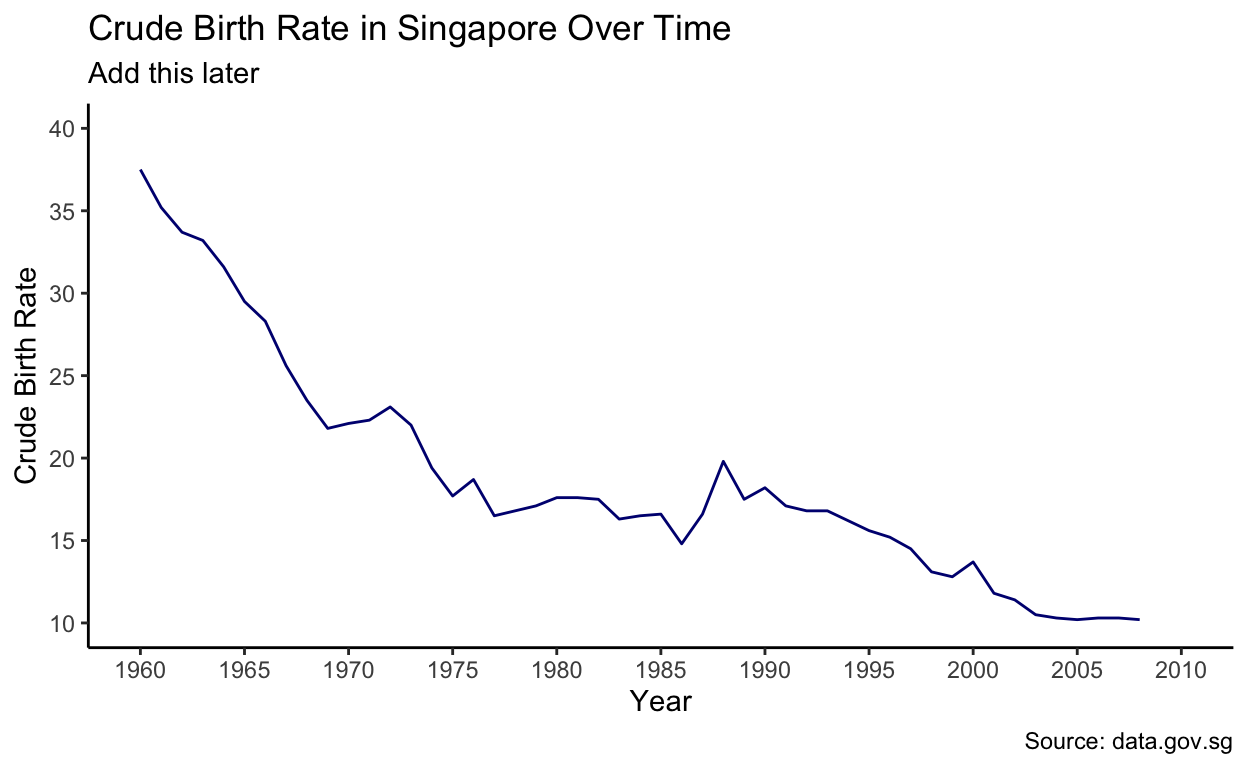
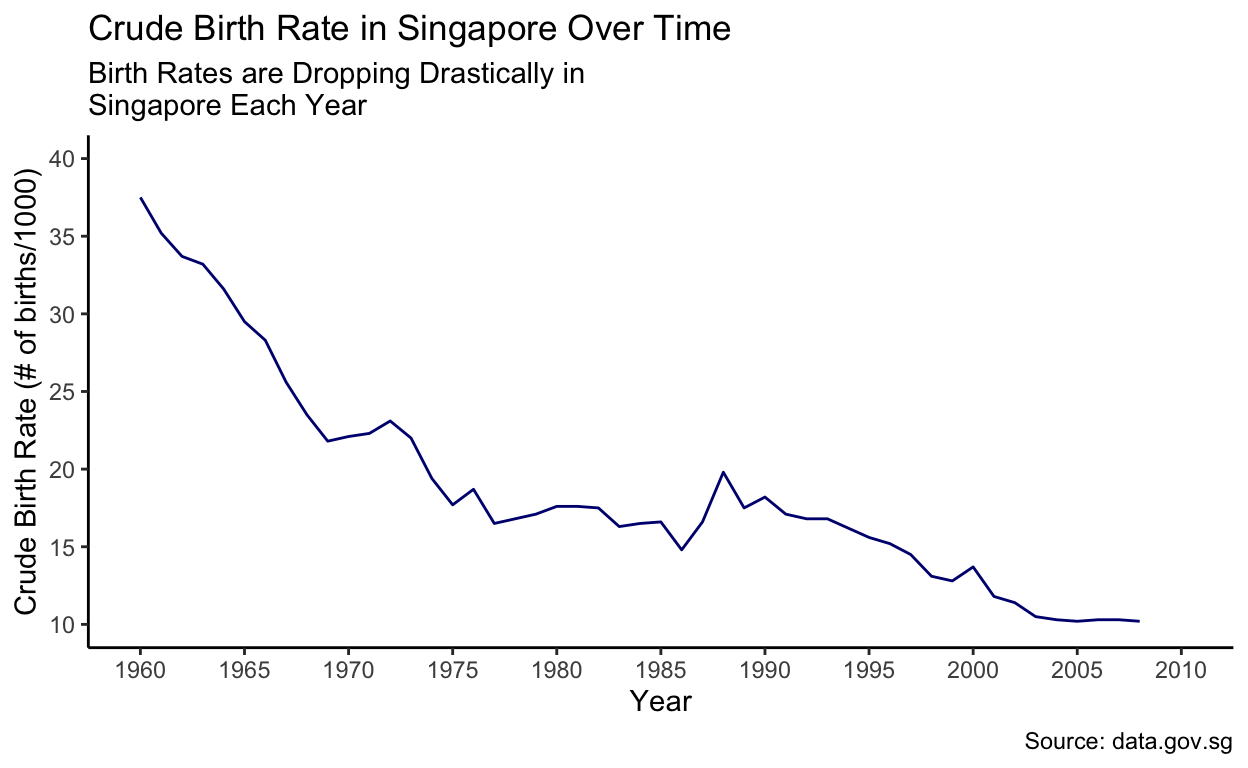
commit VI

diff --git a/docs/index.html b/docs/index.html
@@ -88,27 +88,27 @@ code span.wa { color: #5e5e5e; font-style: italic; } /* Warning */
   <!--radix_placeholder_meta_tags-->
   <title>Singapore and Age: An Analysis of the Causes of Singapores Rapidly Aging Population</title>
 
-  <meta property="description" itemprop="description" content="This is an investigation of the relationship between Singapore&#39;s aging population and the nation-state&#39;s declining birth rates."/>
+  <meta property="description" itemprop="description" content="This is an investigation of the relationship between Singapore\&#39;s aging population and the nation-state\&#39;s declining birth rates."/>
 
 
 
   <!--  https://developers.facebook.com/docs/sharing/webmasters#markup -->
   <meta property="og:title" content="Singapore and Age: An Analysis of the Causes of Singapores Rapidly Aging Population"/>
   <meta property="og:type" content="article"/>
-  <meta property="og:description" content="This is an investigation of the relationship between Singapore&#39;s aging population and the nation-state&#39;s declining birth rates."/>
+  <meta property="og:description" content="This is an investigation of the relationship between Singapore\&#39;s aging population and the nation-state\&#39;s declining birth rates."/>
   <meta property="og:locale" content="en_US"/>
   <meta property="og:site_name" content="Singapore and Age"/>
 
   <!--  https://dev.twitter.com/cards/types/summary -->
   <meta property="twitter:card" content="summary"/>
   <meta property="twitter:title" content="Singapore and Age: An Analysis of the Causes of Singapores Rapidly Aging Population"/>
-  <meta property="twitter:description" content="This is an investigation of the relationship between Singapore&#39;s aging population and the nation-state&#39;s declining birth rates."/>
+  <meta property="twitter:description" content="This is an investigation of the relationship between Singapore\&#39;s aging population and the nation-state\&#39;s declining birth rates."/>
 
   <!--/radix_placeholder_meta_tags-->
   <!--radix_placeholder_rmarkdown_metadata-->
 
   <script type="text/json" id="radix-rmarkdown-metadata">
-  {"type":"list","attributes":{"names":{"type":"character","attributes":{},"value":["title","description","site"]}},"value":[{"type":"character","attributes":{},"value":["An Analysis of the Causes of Singapores Rapidly Aging Population"]},{"type":"character","attributes":{},"value":["This is an investigation of the relationship between Singapore's aging population and the nation-state's declining birth rates."]},{"type":"character","attributes":{},"value":["distill::distill_website"]}]}
+  {"type":"list","attributes":{"names":{"type":"character","attributes":{},"value":["title","description","site"]}},"value":[{"type":"character","attributes":{},"value":["An Analysis of the Causes of Singapores Rapidly Aging Population"]},{"type":"character","attributes":{},"value":["This is an investigation of the relationship between Singapore\\'s aging population and the nation-state\\'s declining birth rates.\n"]},{"type":"character","attributes":{},"value":["distill::distill_website"]}]}
   </script>
   <!--/radix_placeholder_rmarkdown_metadata-->
   <!--radix_placeholder_navigation_in_header-->
@@ -2053,7 +2053,7 @@ code span.wa { color: #5e5e5e; font-style: italic; } /* Warning */
 <!--radix_placeholder_front_matter-->
 
 <script id="distill-front-matter" type="text/json">
-{"title":"An Analysis of the Causes of Singapores Rapidly Aging Population","description":"This is an investigation of the relationship between Singapore's aging population and the nation-state's declining birth rates.","authors":[]}
+{"title":"An Analysis of the Causes of Singapores Rapidly Aging Population","description":"This is an investigation of the relationship between Singapore\\'s aging population and the nation-state\\'s declining birth rates.","authors":[]}
 </script>
 
 <!--/radix_placeholder_front_matter-->
@@ -2078,7 +2078,7 @@ code span.wa { color: #5e5e5e; font-style: italic; } /* Warning */
 <h1>An Analysis of the Causes of Singapores Rapidly Aging Population</h1>
 <!--radix_placeholder_categories-->
 <!--/radix_placeholder_categories-->
-<p>This is an investigation of the relationship between Singapore’s aging population and the nation-state’s declining birth rates.</p>
+<p><p>This is an investigation of the relationship between Singapore's aging population and the nation-state's declining birth rates.</p></p>
 </div>
 
 
@@ -2086,20 +2086,33 @@ code span.wa { color: #5e5e5e; font-style: italic; } /* Warning */
 <div class="layout-chunk" data-layout="l-body">
 
 </div>
-<p>Introduction: The following presentation investigates Singapore’s aging population in detail and delves into the main reasons why the population is so disproportionately dominated by older individuals. After careful research, it was determined that the main reason why Singapore’s population is aging rapidly is chiefly caused by the rapidly decreasing birth rate of the nation state. The following graphics in this investigation will discuss the relationship between the two and solutions the Singaporean government has attempted to employ to solve this pressing issue.</p>
-Singapore’s Old and Aging Population: Below we have a graphic (population pyramid) depicting the makeup of Singapore’s Population in 2015. Every red bar represents the percent of women of that age group in the sample population and every blue bar represents the percent of men of that age group in the sample population. According the the graphic, Singapore’s - sample - population in 2015 was 3,514,663; men making up 48.9% population or approximately 1,718,670 in number. And women making up 51.1% of the population or approximately 1,795,993 in number. The y-axis shows that the age ranges of 10 - 80 &amp; over were sampled.
+<p>Introduction:</p>
+<p>The following presentation investigates Singapore’s aging population in detail and delves into the main reasons why the population is so disproportionately dominated by older individuals. After careful research, it was determined that the main reason why Singapore’s population is aging rapidly is chiefly caused by the rapidly decreasing birth rate of the nation state. The following graphics in this investigation will discuss the relationship between the two and solutions the Singaporean government has attempted to employ to solve this pressing issue.</p>
+<p>Singapore’s Old and Aging Population:</p>
+Below we have a graphic (population pyramid) depicting the makeup of Singapore’s Population in 2015. Every red bar represents the percent of women of that age group in the sample population and every blue bar represents the percent of men of that age group in the sample population. According the the graphic, Singapore’s - sample - population in 2015 was 3,514,663; men making up 48.9% population or approximately 1,718,670 in number. And women making up 51.1% of the population or approximately 1,795,993 in number. The y-axis shows that the age ranges of 10 - 80 &amp; over were sampled. The data was retrieved from data.gov.sg.
 <div class="layout-chunk" data-layout="l-body">
 <p><img src="index_files/figure-html5/Population%20Pyramid%20-%20Singapore-1.png" width="624" /></p>
 </div>
-<p>According to the graphic above, 28.2% (approx. 991,135) of the individuals sampled in this graphic are 29 years or younger. Meaning that 71.8% (approx. 2,523,528) of the sample population is older than 30. This gives a little insight as to why Singapore’s population is getting older faster. A woman’s fertility peaks between the late teens and late-20s, after which it starts to decline slowly; fertility generally starts to reduce when a woman is in her early 30s, and more so after the age of 35. By age 40, the chance of getting pregnant in any monthly cycle is around 5%. Therefore, if the majority of in a population are older as a result, less children will be born. Although the graphic only shows data for the year 2015, the disparity between the old and young in Singapore’s Population has gotten greater each year. This led me to conclude that one of the main causes of Singapore’s rapidly ageing population is due to the low and falling birth rates.</p>
-<p>Why Does This Matter?: One might ask: Why this is a big deal? As it is extremely common for developed or “first-world” countries to experience a dip in birth rate as a byproduct of economic progress. While this is true as a total fertility rate below the replacement level of 2.1 is now the norm for advanced economies. Singapore, along with many other east and south-east Asian countries have been experiencing extremely low birth rates through the years. Well below the global average. In the absence of immigration, Singapore is set to experience the most rapid population aging - as depicted in the graphic above - and decline.</p>
-Singapore’s Declining Birth Rates:
+<p>According to the graphic above, 28.2% (approx. 991,135) of the individuals sampled in this graphic are 29 years or younger. Meaning that 71.8% (approx. 2,523,528) of the sample population is older than 30. This gives a little insight as to why Singapore’s population is getting older faster. A woman’s fertility peaks between the late teens and late-20s, after which it starts to decline slowly; fertility generally starts to reduce when a woman is in her early 30s, and more so after the age of 35. By age 40, the chance of getting pregnant in any monthly cycle is around 5%. Therefore, if the majority of in a population are older, less children will be born. Although the graphic only shows data for the year 2015, the disparity between the old and young in Singapore’s population has increased each year. This led me to conclude that one of the main causes of Singapore’s rapidly aging population is due to low and declining birth rates.</p>
+<p>Why Does This Matter?:</p>
+<p>One might ask, “Why this is a big deal?” It is extremely common for developed or “first-world” countries to experience a dip in birth rate as a byproduct of economic progress. While this is true as a total fertility rate below the replacement level of 2.1 is now the norm for advanced economies. Singapore, along with many other east and south-east Asian countries have been experiencing extremely low birth rates through the years. Well below the global average. In the absence of immigration, Singapore is set to experience the most rapid population aging - as depicted in the graphic above - and decline.</p>
+<p>Singapore’s Declining Birth Rates:</p>
+<p>Below we have a graphic depicting Singapore’s crude birth rate over the years.</p>
+<p>*Note: Crude birth rate is the number of live births per 1000 population in a given year.</p>
+The x-axis correlates with the year and the y-axis correlates to crude birth rates. The data was retrieved from data.gov.sg.
 <div class="layout-chunk" data-layout="l-body">
 <p><img src="index_files/figure-html5/Crude%20Birth%20Graph%20-%20Singapore-1.png" width="624" /></p>
 </div>
+<p>Singapore’s Declining Birth Rates (Cont.): Below we have a graphic depicting Singapore’s total/net fertility and reproductive rates over the years.</p>
+<p><em>NoteI: Gross reproduction rate is the average number of daughters that would be born to a woman during her lifetime if she passed through her child-bearing years conforming to the age specific fertility rates of a given year.) </em>NoteII: Net reproductive rate is the average number of daughters that would be born to a woman if she passed through her life-time from birth to the end of her reproductive years conforming to the age-specific fertility and mortality rates of a given year. *NoteIII: Total fertility rate is the average number of children that would be born to a woman by the time she ended childbearing if she were to pass through all her childbearing years conforming to the age-specific fertility rates of a given year.</p>
+The x-axis correlates with the year and the y-axis correlates to fertility/reproductive rates. The data was retrieved from data.gov.sg.
 <div class="layout-chunk" data-layout="l-body">
 <p><img src="index_files/figure-html5/Live%20Birth%20Graph%20-%20Singapore-1.png" width="624" /></p>
 </div>
+<p>As shown in the graphs above, Singapore’s birth rates have dropped dramatically and continue to drop each year, which is the major contributing factor to the nation-state’s rapidly aging population. One thing that is quite interesting about this particular data is that the most drastic drop in birth/fertility/reproductive rates were between the years 1960 and 1975. Singapore gained independence in 1965 and began to rapidly progress economically during that time until around 1985 which was when they were finally considered a “first world country.”</p>
+<p>Globally, the mean age of childbearing has increased by approximately one year a decade among Organisation for Economic Co-operation and Development (OCED) countries, according to calculations by Oxford University’s Melinda Mills and colleagues (Mills and others 2011). In Singapore, changes in the age composition of women giving birth have been especially dramatic. Women ages 20–24 are now as likely to give birth as women ages 40–44 and far less likely than women ages 35–39. Moreover, unlike in a number of European countries, the steep decline in fertility among women in their 20s has not been offset by higher birth rates among women in their 30s.</p>
+<p>Solutions: The government has grappled with the relentless downward trend in fertility since the 1980s. After a public campaign and limited programs failed to produce results, a package of pronatalist incentives was introduced in 2001 and enhanced over the years. Currently, the package includes paid maternity leave, childcare subsidies, tax relief and rebates, one-time cash gifts, and grants for companies that implement flexible work arrangements. Despite these efforts, the fertility rate deteriorated from 1.41 in 2001 to a precarious 1.16 in 2018.</p>
+<p>A new Singaporean policy approach aims to create a more conducive environment for marriage and fertility for all groups—in particular to help married women reconcile labor participation with motherhood. However, few if any of the instruments are designed specifically to allow women to become mothers at peak childbearing ages, either to stem the decline among women in their 20’s or to boost fertility rates among women in their early 30s. As a result, the lack of age sensitivity represents a lost opportunity to cater to the most receptive group of prospective parents.</p>
 <div class="sourceCode" id="cb1"><pre class="sourceCode r distill-force-highlighting-css"><code class="sourceCode r"></code></pre></div>
 <!--radix_placeholder_article_footer-->
 <!--/radix_placeholder_article_footer-->
